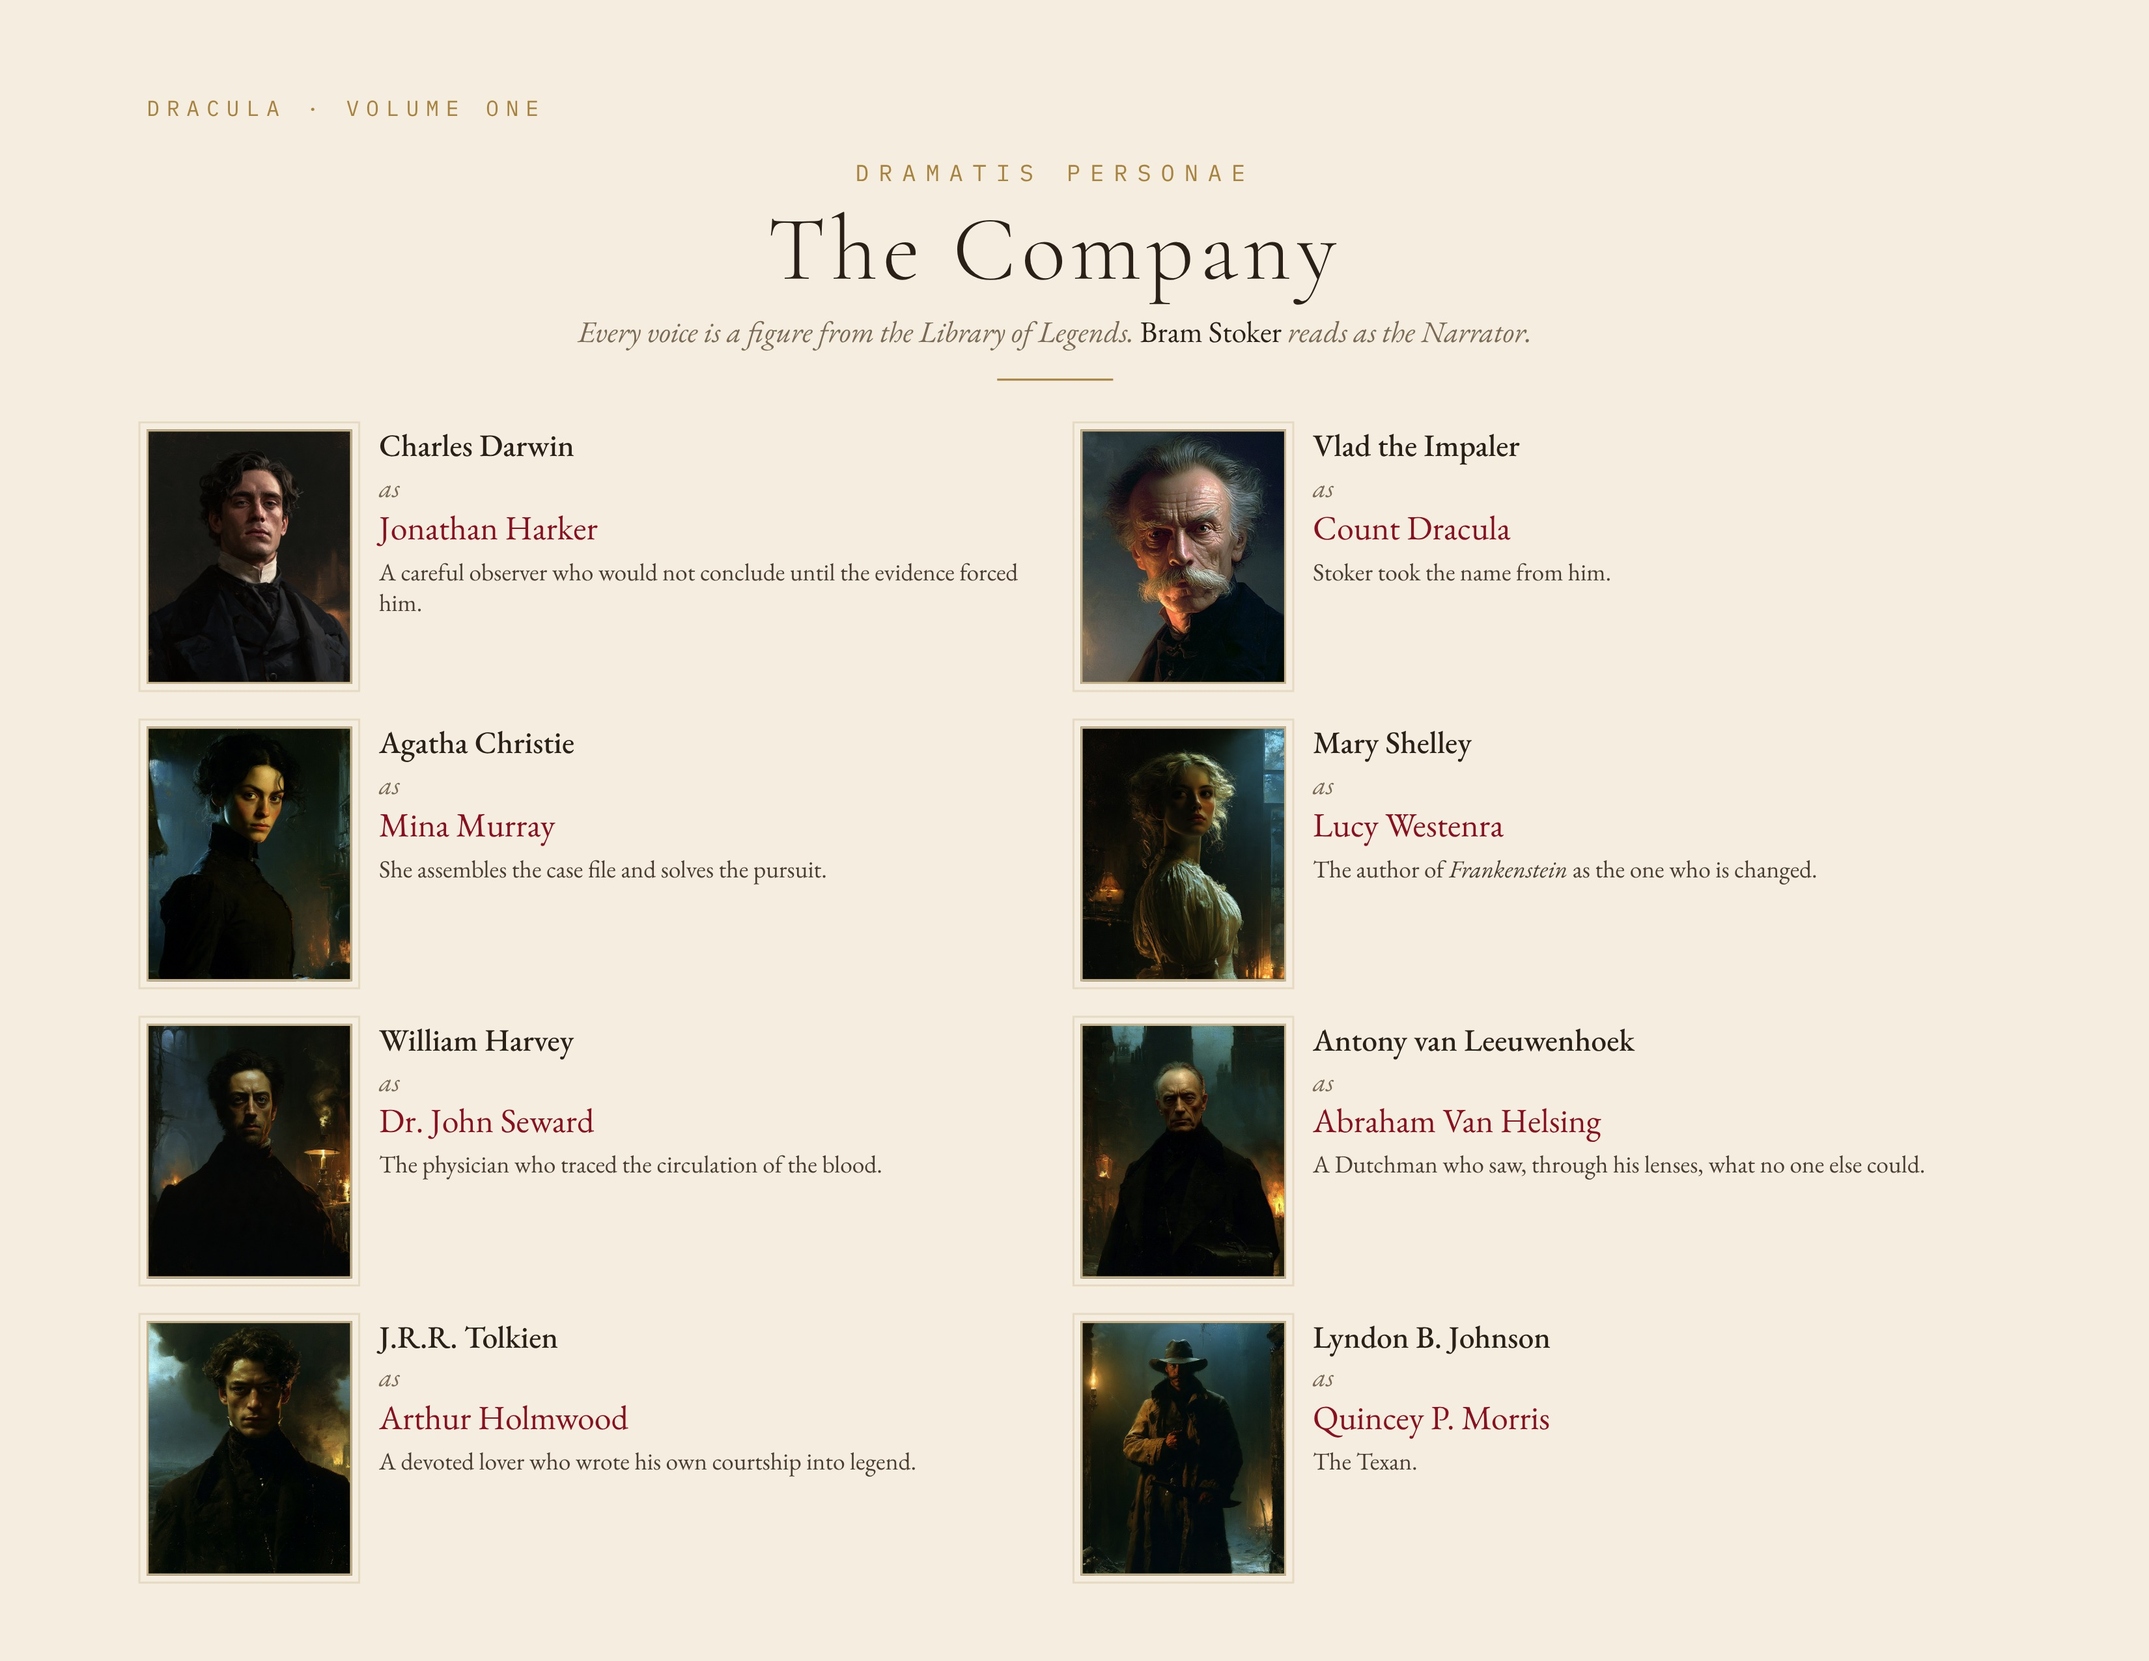
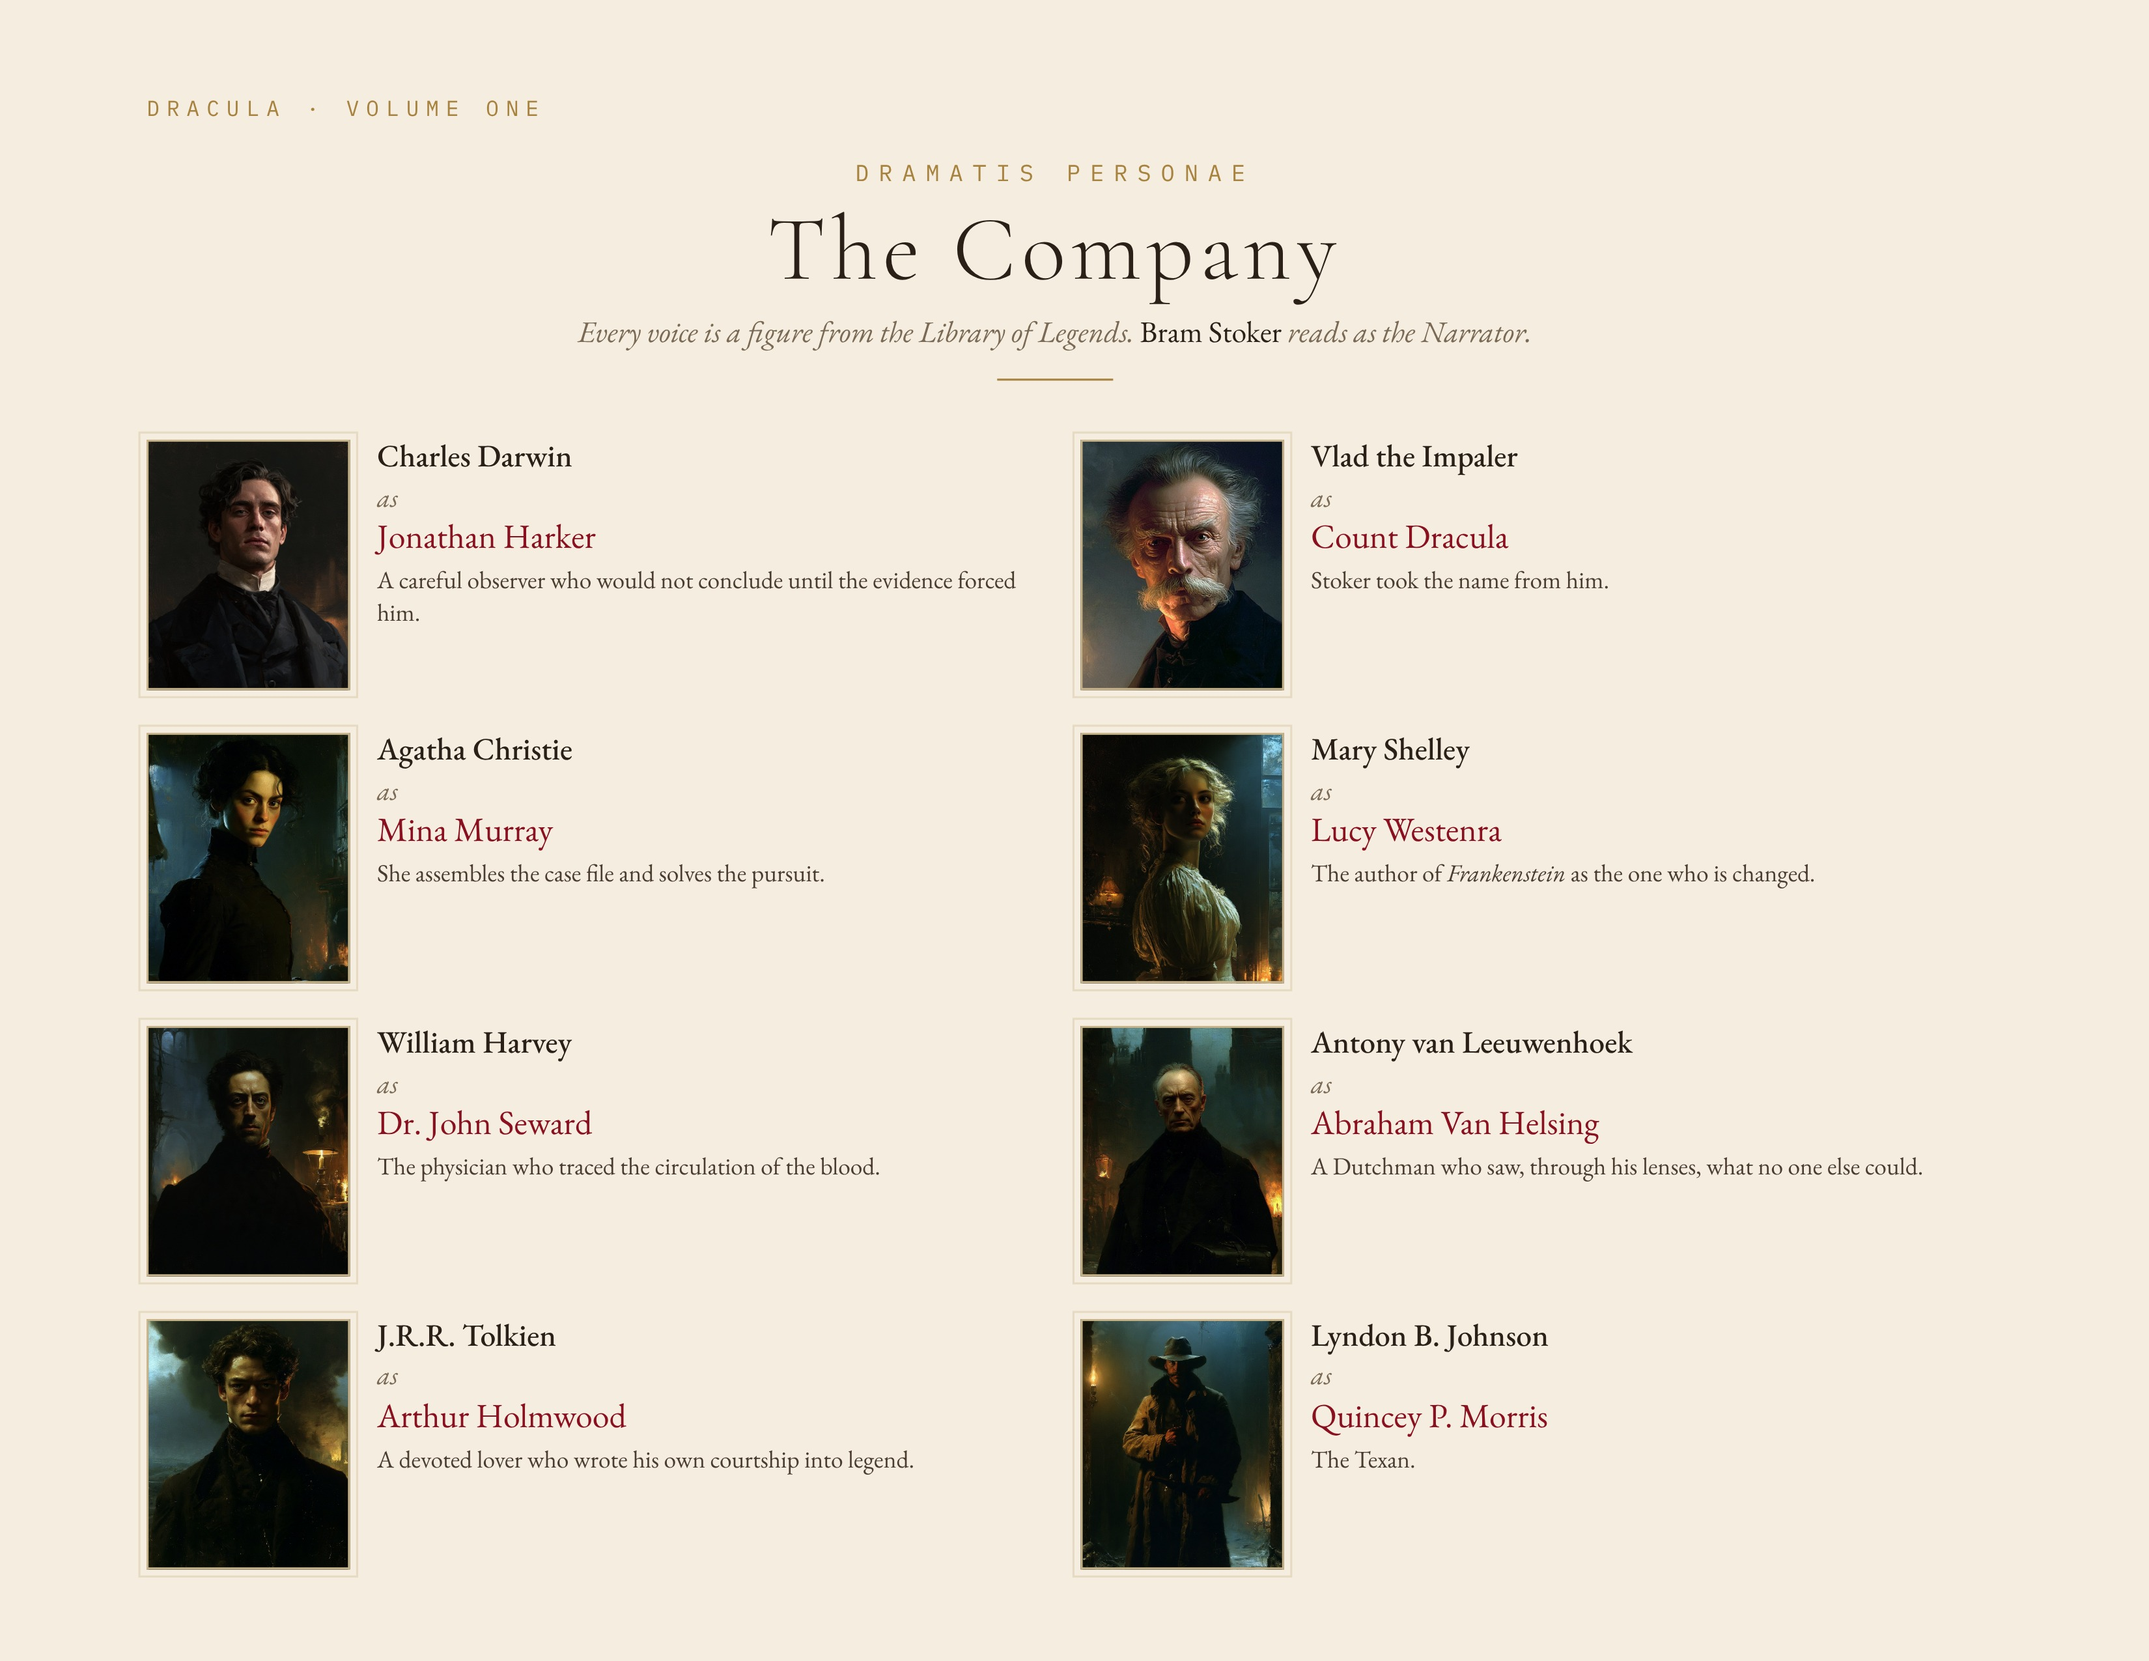
Volume One cast spread: rows aligned across the spread, Ask Amenti block mirrors the title
Claude-Session: https://claude.ai/code/session_013VwDP7mPLrP4eYudhxc4u4

diff --git a/dracula/books/volume-1/print/cast.html b/dracula/books/volume-1/print/cast.html
@@ -43,17 +43,18 @@ html,body{margin:0;background:#555}
 .qr{position:absolute;right:.75in;top:.8in;width:1.05in;text-align:center;font:7pt M;letter-spacing:.2em;color:var(--gold);text-transform:uppercase}
 .qr img{width:1.05in;height:1.05in;display:block;margin-bottom:.05in}
 </style><style>
-.co{position:absolute;display:grid;gap:.22in .26in}
+.co{position:absolute;display:grid;gap:.2in .26in;grid-template-rows:repeat(4,1.3in);top:2.25in}
 .c{display:flex;gap:.14in;align-items:flex-start}
-.ph{flex:none;width:1.05in;height:1.3in;background:#1c1a1a center/cover no-repeat;border:1px solid #c8b48a;box-shadow:0 0 0 3px var(--ivory),0 0 0 4px #c8b48a55}
+.ph{flex:none;width:1.04in;height:1.28in;background:#1c1a1a center/cover no-repeat;border:1px solid #c8b48a;box-shadow:0 0 0 3px var(--ivory),0 0 0 4px #c8b48a55}
 .nm{font:600 11.5pt/1.15 G}.as{font:italic 10pt G;color:#7a6a55;margin:.02in 0}.ro{font:12.5pt/1.15 G;color:var(--red)}
 .wy{font:9pt/1.3 G;color:#4a3d30;margin-top:.05in}
 </style></head><body style="margin:0;background:#555"><div class="pg L"><div class="rh">Dracula · Volume One</div>
 <div style="position:absolute;left:.75in;right:.95in;top:.8in;text-align:center"><div class="k">Dramatis personae</div><div style="font:300 34pt/1.1 C;letter-spacing:.06em;margin:.06in 0">The Company</div>
 <div style="font:italic 11pt G;color:#7a6a55">Every voice is a figure from the Library of Legends. <span style="font-style:normal;color:var(--ink)">Bram Stoker</span> reads as the Narrator.</div><div class="rule" style="margin:.14in auto 0"></div></div>
-<div class="co" style="left:.75in;right:.95in;top:2.2in;grid-template-columns:1fr 1fr"><div class="c"><div class="ph" style="background-image:url(file:///home/claude/ar/dracula/art/ref/bk3-jonathan.jpg);background-position:center 20%"></div><div><div class="nm">Charles Darwin</div><div class="as">as</div><div class="ro">Jonathan Harker</div><div class="wy">A careful observer who would not conclude until the evidence forced him.</div></div></div><div class="c"><div class="ph" style="background-image:url(file:///home/claude/ar/dracula/art/ref/bk1-count.jpg);background-position:center 30%"></div><div><div class="nm">Vlad the Impaler</div><div class="as">as</div><div class="ro">Count Dracula</div><div class="wy">Stoker took the name from him.</div></div></div><div class="c"><div class="ph" style="background-image:url(file:///home/claude/ar/dracula/art/ref/bk2-mina.jpg);background-position:center 25%"></div><div><div class="nm">Agatha Christie</div><div class="as">as</div><div class="ro">Mina Murray</div><div class="wy">She assembles the case file and solves the pursuit.</div></div></div><div class="c"><div class="ph" style="background-image:url(file:///home/claude/ar/dracula/art/ref/bk2-lucy.jpg);background-position:center 25%"></div><div><div class="nm">Mary Shelley</div><div class="as">as</div><div class="ro">Lucy Westenra</div><div class="wy">The author of <i>Frankenstein</i> as the one who is changed.</div></div></div><div class="c"><div class="ph" style="background-image:url(file:///home/claude/ar/dracula/art/ref/bk2-seward.jpg);background-position:center 30%"></div><div><div class="nm">William Harvey</div><div class="as">as</div><div class="ro">Dr. John Seward</div><div class="wy">The physician who traced the circulation of the blood.</div></div></div><div class="c"><div class="ph" style="background-image:url(file:///home/claude/ar/dracula/art/ref/bk2-van-helsing.jpg);background-position:center 30%"></div><div><div class="nm">Antony van Leeuwenhoek</div><div class="as">as</div><div class="ro">Abraham Van Helsing</div><div class="wy">A Dutchman who saw, through his lenses, what no one else could.</div></div></div><div class="c"><div class="ph" style="background-image:url(file:///home/claude/ar/dracula/art/ref/bk2-arthur.jpg);background-position:center 30%"></div><div><div class="nm">J.R.R. Tolkien</div><div class="as">as</div><div class="ro">Arthur Holmwood</div><div class="wy">A devoted lover who wrote his own courtship into legend.</div></div></div><div class="c"><div class="ph" style="background-image:url(file:///home/claude/ar/dracula/art/ref/bk2-quincey.jpg);background-position:center 30%"></div><div><div class="nm">Lyndon B. Johnson</div><div class="as">as</div><div class="ro">Quincey P. Morris</div><div class="wy">The Texan.</div></div></div></div>
+<div class="co" style="left:.75in;right:.95in;grid-template-columns:1fr 1fr"><div class="c"><div class="ph" style="background-image:url(file:///home/claude/ar/dracula/art/ref/bk3-jonathan.jpg);background-position:center 20%"></div><div><div class="nm">Charles Darwin</div><div class="as">as</div><div class="ro">Jonathan Harker</div><div class="wy">A careful observer who would not conclude until the evidence forced him.</div></div></div><div class="c"><div class="ph" style="background-image:url(file:///home/claude/ar/dracula/art/ref/bk1-count.jpg);background-position:center 30%"></div><div><div class="nm">Vlad the Impaler</div><div class="as">as</div><div class="ro">Count Dracula</div><div class="wy">Stoker took the name from him.</div></div></div><div class="c"><div class="ph" style="background-image:url(file:///home/claude/ar/dracula/art/ref/bk2-mina.jpg);background-position:center 25%"></div><div><div class="nm">Agatha Christie</div><div class="as">as</div><div class="ro">Mina Murray</div><div class="wy">She assembles the case file and solves the pursuit.</div></div></div><div class="c"><div class="ph" style="background-image:url(file:///home/claude/ar/dracula/art/ref/bk2-lucy.jpg);background-position:center 25%"></div><div><div class="nm">Mary Shelley</div><div class="as">as</div><div class="ro">Lucy Westenra</div><div class="wy">The author of <i>Frankenstein</i> as the one who is changed.</div></div></div><div class="c"><div class="ph" style="background-image:url(file:///home/claude/ar/dracula/art/ref/bk2-seward.jpg);background-position:center 30%"></div><div><div class="nm">William Harvey</div><div class="as">as</div><div class="ro">Dr. John Seward</div><div class="wy">The physician who traced the circulation of the blood.</div></div></div><div class="c"><div class="ph" style="background-image:url(file:///home/claude/ar/dracula/art/ref/bk2-van-helsing.jpg);background-position:center 30%"></div><div><div class="nm">Antony van Leeuwenhoek</div><div class="as">as</div><div class="ro">Abraham Van Helsing</div><div class="wy">A Dutchman who saw, through his lenses, what no one else could.</div></div></div><div class="c"><div class="ph" style="background-image:url(file:///home/claude/ar/dracula/art/ref/bk2-arthur.jpg);background-position:center 30%"></div><div><div class="nm">J.R.R. Tolkien</div><div class="as">as</div><div class="ro">Arthur Holmwood</div><div class="wy">A devoted lover who wrote his own courtship into legend.</div></div></div><div class="c"><div class="ph" style="background-image:url(file:///home/claude/ar/dracula/art/ref/bk2-quincey.jpg);background-position:center 30%"></div><div><div class="nm">Lyndon B. Johnson</div><div class="as">as</div><div class="ro">Quincey P. Morris</div><div class="wy">The Texan.</div></div></div></div>
 </div><div class="pg R"><div class="rh">The Company</div>
-<div class="co" style="left:.95in;right:.75in;top:1in;grid-template-columns:1fr 1fr"><div class="c"><div class="ph" style="background-image:url(file:///home/claude/ar/dracula/art/ref/bk2-renfield.jpg);background-position:center 30%"></div><div><div class="nm">Jack the Ripper</div><div class="as">as</div><div class="ro">R. M. Renfield</div><div class="wy">Victorian London’s enigma — lucid one moment, raving for his Master the next.</div></div></div><div class="c"><div class="ph" style="background-image:url(file:///home/claude/ar/dracula/art/ch03-h1-2.jpg);background-position:78% center"></div><div><div class="nm">Empress Elisabeth · Elizabeth Báthory · Catherine de’ Medici</div><div class="as">as</div><div class="ro">The Three Women</div><div class="wy">The fair one, and the two dark sisters of the castle.</div></div></div><div class="c"><div class="ph" style="background-image:url(file:///home/claude/ar/dracula/art/ch01-inn-crucifix-3.jpg);background-position:18% center"></div><div><div class="nm">Hildegard of Bingen</div><div class="as">as</div><div class="ro">The Landlady at Bistritz · Sister Agatha</div><div class="wy">A devout voice; she presses her crucifix on Harker.</div></div></div><div class="c"><div class="ph" style="background-image:url(file:///home/claude/ar/dracula/art/ch07-log-lashed-0.jpg);background-position:68% center"></div><div><div class="nm">Vitus Bering</div><div class="as">as</div><div class="ro">The Captain of the Demeter</div><div class="wy">A captain who died with his stranded crew — duty to the last, as in the log.</div></div></div><div class="c"><div class="ph" style="background-image:url(file:///home/claude/ar/dracula/art/ch07-swales-b0.jpg);background-position:40% center"></div><div><div class="nm">James Cook</div><div class="as">as</div><div class="ro">Mr. Swales</div><div class="wy">He learned the sea at Whitby itself.</div></div></div><div class="c"><div class="ph" style="background-image:url(file:///home/claude/ar/dracula/art/ch07-f-crowds-0.jpg);background-position:center center"></div><div><div class="nm">Charles Dickens</div><div class="as">as</div><div class="ro">The Correspondent</div><div class="wy">He began as a newspaper reporter; the storm is a writer on the scene.</div></div></div></div>
-<div style="position:absolute;left:.95in;right:.75in;bottom:.75in;display:flex;align-items:center;gap:.25in;border-top:1px solid #d9ccb3;padding-top:.2in">
-<img src="company-qr.png" style="width:.95in;height:.95in"><div><div class="k">Ask Amenti</div><div style="font:300 18pt/1.2 C;margin:.03in 0">Meet the company.</div><div style="font:10pt G;color:#4a3d30;max-width:5.6in">Scan to ask any of them — Darwin of his voyages, Vlad of the prince Stoker borrowed, Harvey of the blood. Answers are drawn from primary sources in the Library of Legends.</div></div></div>
+<div class="co" style="left:.95in;right:.75in;grid-template-columns:1fr 1fr"><div class="c"><div class="ph" style="background-image:url(file:///home/claude/ar/dracula/art/ref/bk2-renfield.jpg);background-position:center 30%"></div><div><div class="nm">Jack the Ripper</div><div class="as">as</div><div class="ro">R. M. Renfield</div><div class="wy">Victorian London’s enigma — lucid one moment, raving for his Master the next.</div></div></div><div class="c"><div class="ph" style="background-image:url(file:///home/claude/ar/dracula/art/ch03-h1-2.jpg);background-position:78% center"></div><div><div class="nm">Empress Elisabeth · Elizabeth Báthory · Catherine de’ Medici</div><div class="as">as</div><div class="ro">The Three Women</div><div class="wy">The fair one, and the two dark sisters of the castle.</div></div></div><div class="c"><div class="ph" style="background-image:url(file:///home/claude/ar/dracula/art/ch01-inn-crucifix-3.jpg);background-position:18% center"></div><div><div class="nm">Hildegard of Bingen</div><div class="as">as</div><div class="ro">The Landlady at Bistritz · Sister Agatha</div><div class="wy">A devout voice; she presses her crucifix on Harker.</div></div></div><div class="c"><div class="ph" style="background-image:url(file:///home/claude/ar/dracula/art/ch07-log-lashed-0.jpg);background-position:68% center"></div><div><div class="nm">Vitus Bering</div><div class="as">as</div><div class="ro">The Captain of the Demeter</div><div class="wy">A captain who died with his stranded crew — duty to the last, as in the log.</div></div></div><div class="c"><div class="ph" style="background-image:url(file:///home/claude/ar/dracula/art/ch07-swales-b0.jpg);background-position:40% center"></div><div><div class="nm">James Cook</div><div class="as">as</div><div class="ro">Mr. Swales</div><div class="wy">He learned the sea at Whitby itself.</div></div></div><div class="c"><div class="ph" style="background-image:url(file:///home/claude/ar/dracula/art/ch07-f-crowds-0.jpg);background-position:center center"></div><div><div class="nm">Charles Dickens</div><div class="as">as</div><div class="ro">The Correspondent</div><div class="wy">He began as a newspaper reporter; the storm is a writer on the scene.</div></div></div></div>
+<div style="position:absolute;left:.95in;right:.75in;top:.8in;height:1.25in;display:flex;align-items:center;justify-content:center;gap:.28in">
+<img src="company-qr.png" style="width:1.0in;height:1.0in"><div><div class="k">Ask Amenti</div><div style="font:300 24pt/1.15 C;letter-spacing:.04em;margin:.04in 0">Meet the company.</div><div style="font:italic 10pt/1.35 G;color:#7a6a55;max-width:4.6in">Scan to ask any of them — Darwin of his voyages, Vlad of the prince Stoker borrowed, Harvey of the blood. Answers are drawn from primary sources in the Library of Legends.</div></div></div>
+<div class="rule" style="position:absolute;left:0;right:0;top:2.0in;margin:0 auto;width:.6in"></div>
 </div><script>document.fonts.ready.then(()=>document.title='done')</script></body></html>
